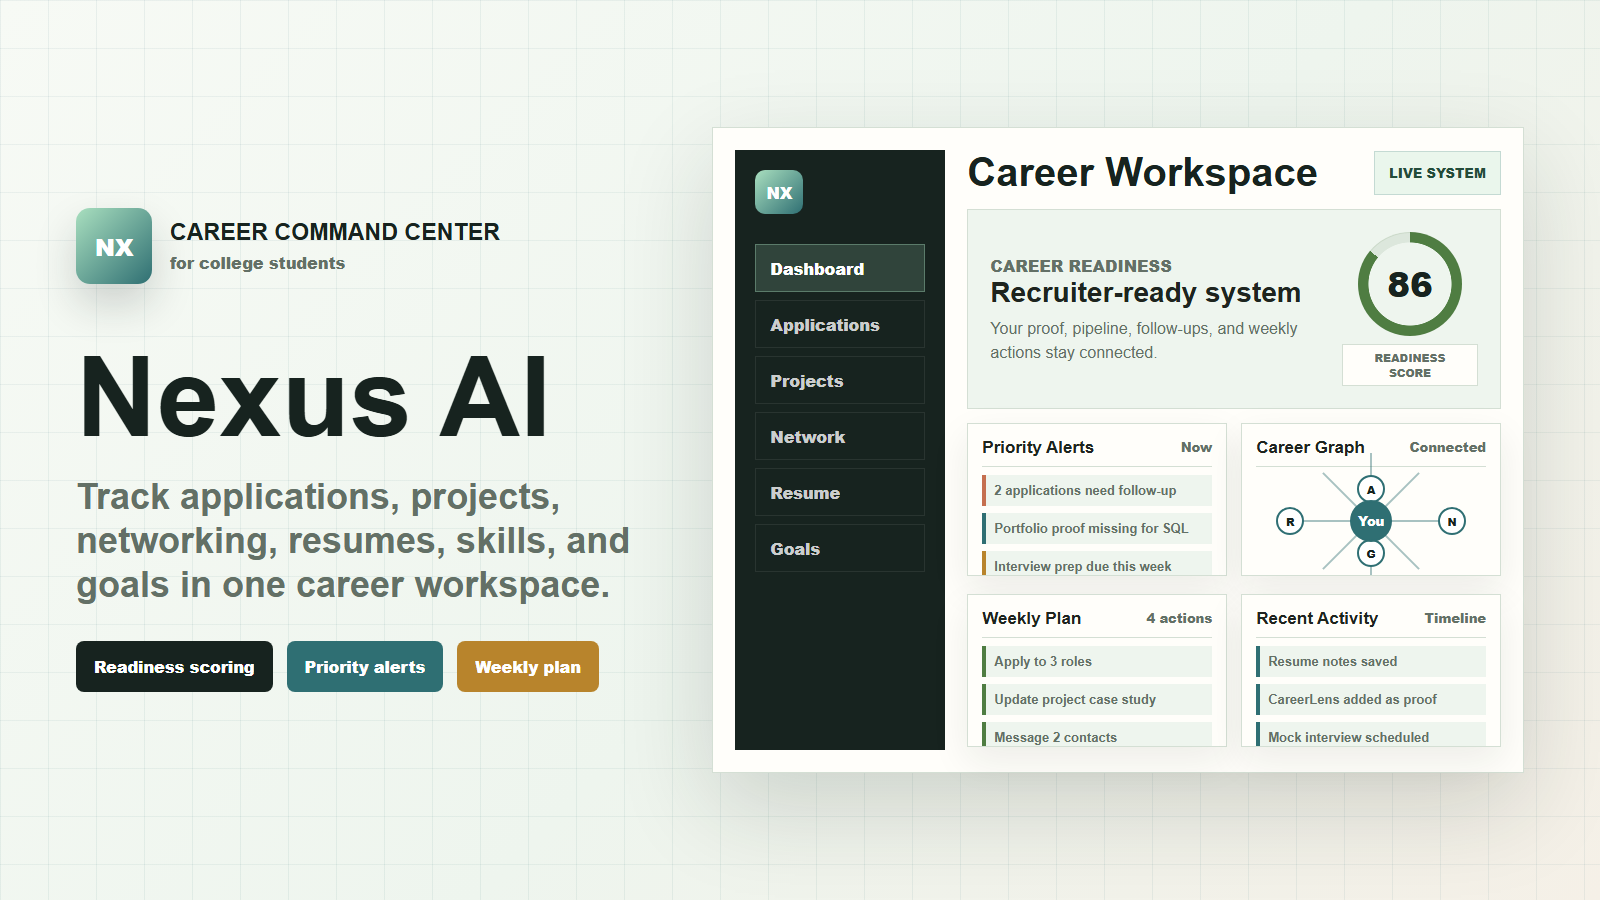
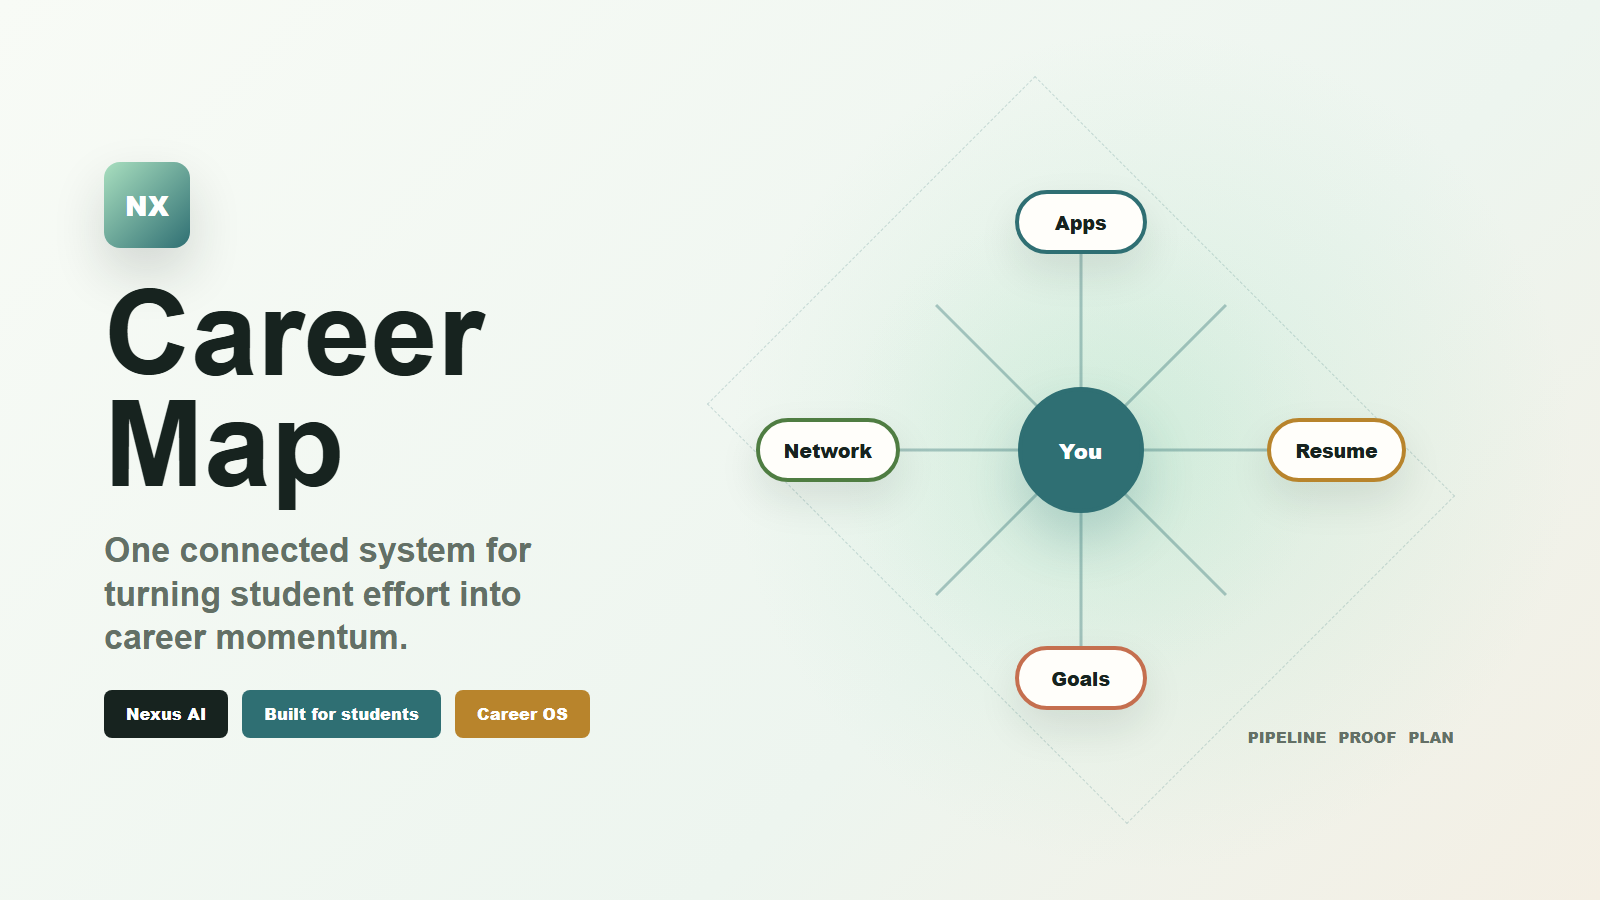
Use Career Map Nexus portfolio thumbnail

Changed region(s): [[0.4375, 0.1556, 0.9375, 0.8711], [0.0312, 0.1556, 0.4062, 0.84], [0.875, 0.1867, 0.9375, 0.2178]]

diff --git a/index.html b/index.html
@@ -102,7 +102,7 @@
 
       <div class="project-grid">
         <article class="project-card featured">
-          <img src="assets/nexus-thumbnail.png?v=15" alt="Nexus AI project thumbnail">
+          <img src="assets/nexus-thumbnail.png?v=16" alt="Nexus AI project thumbnail">
           <div class="project-content">
             <div class="project-badges" aria-label="Nexus AI project status">
               <span>Live</span>